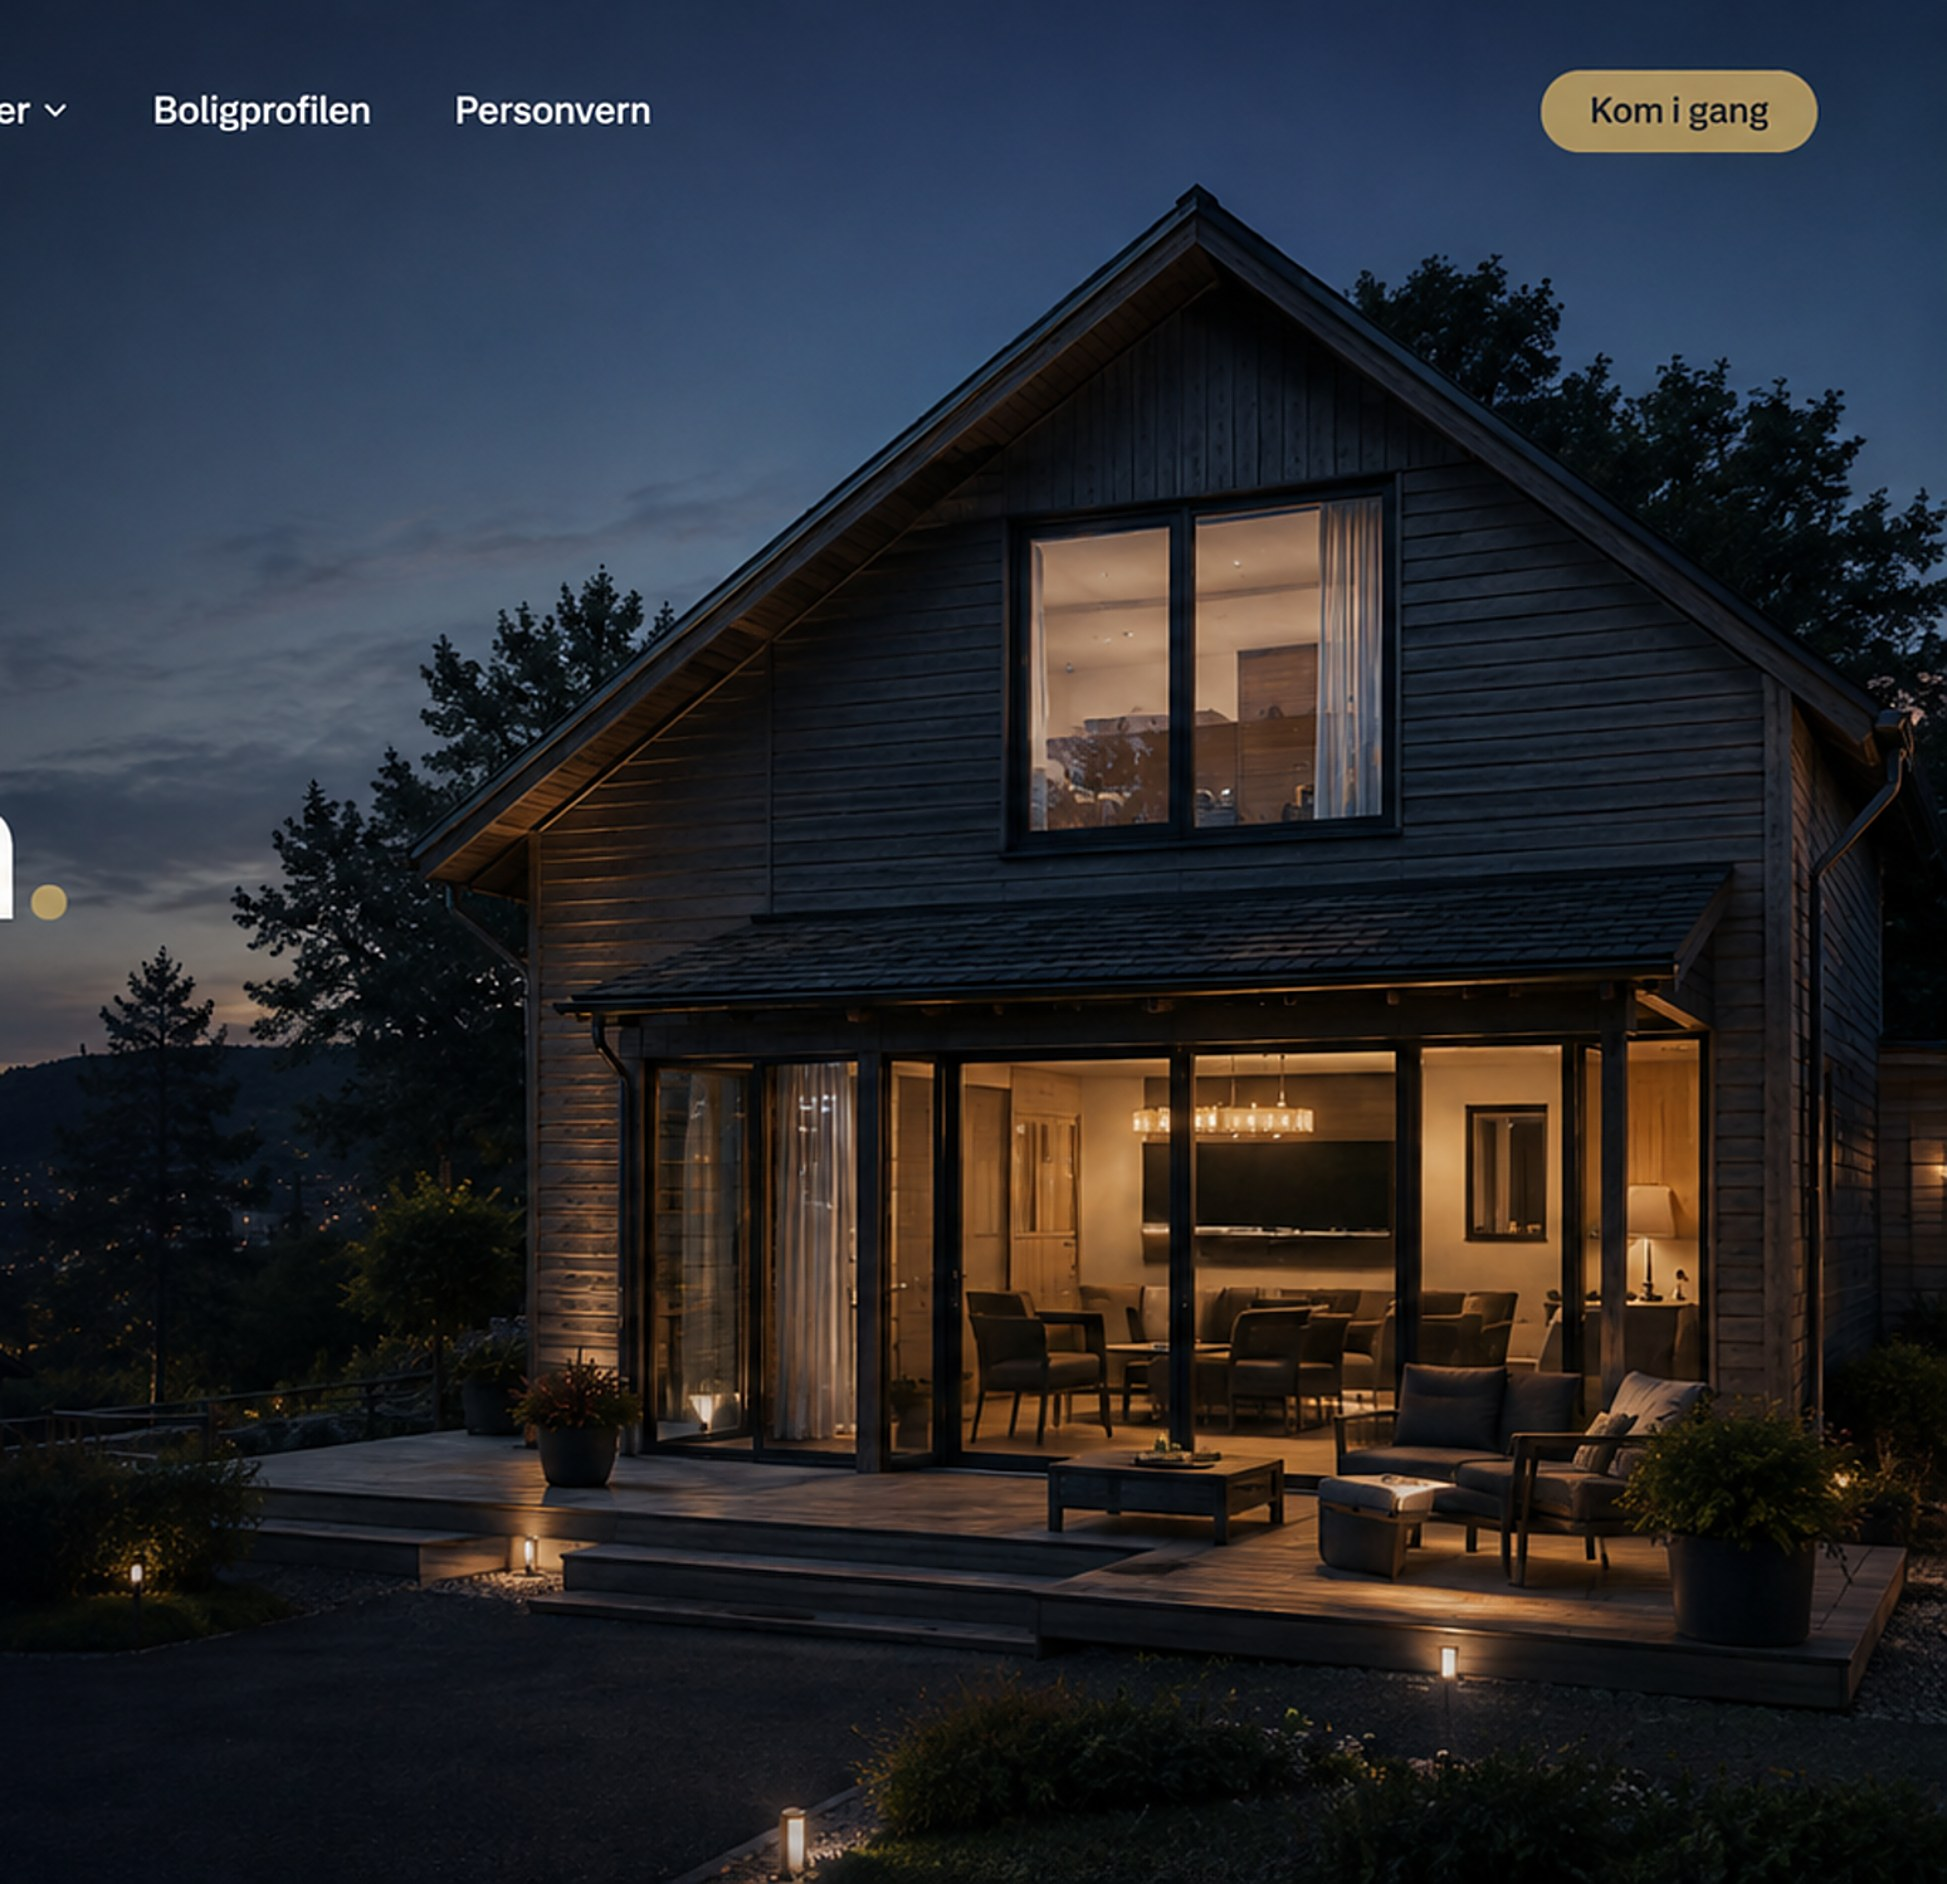
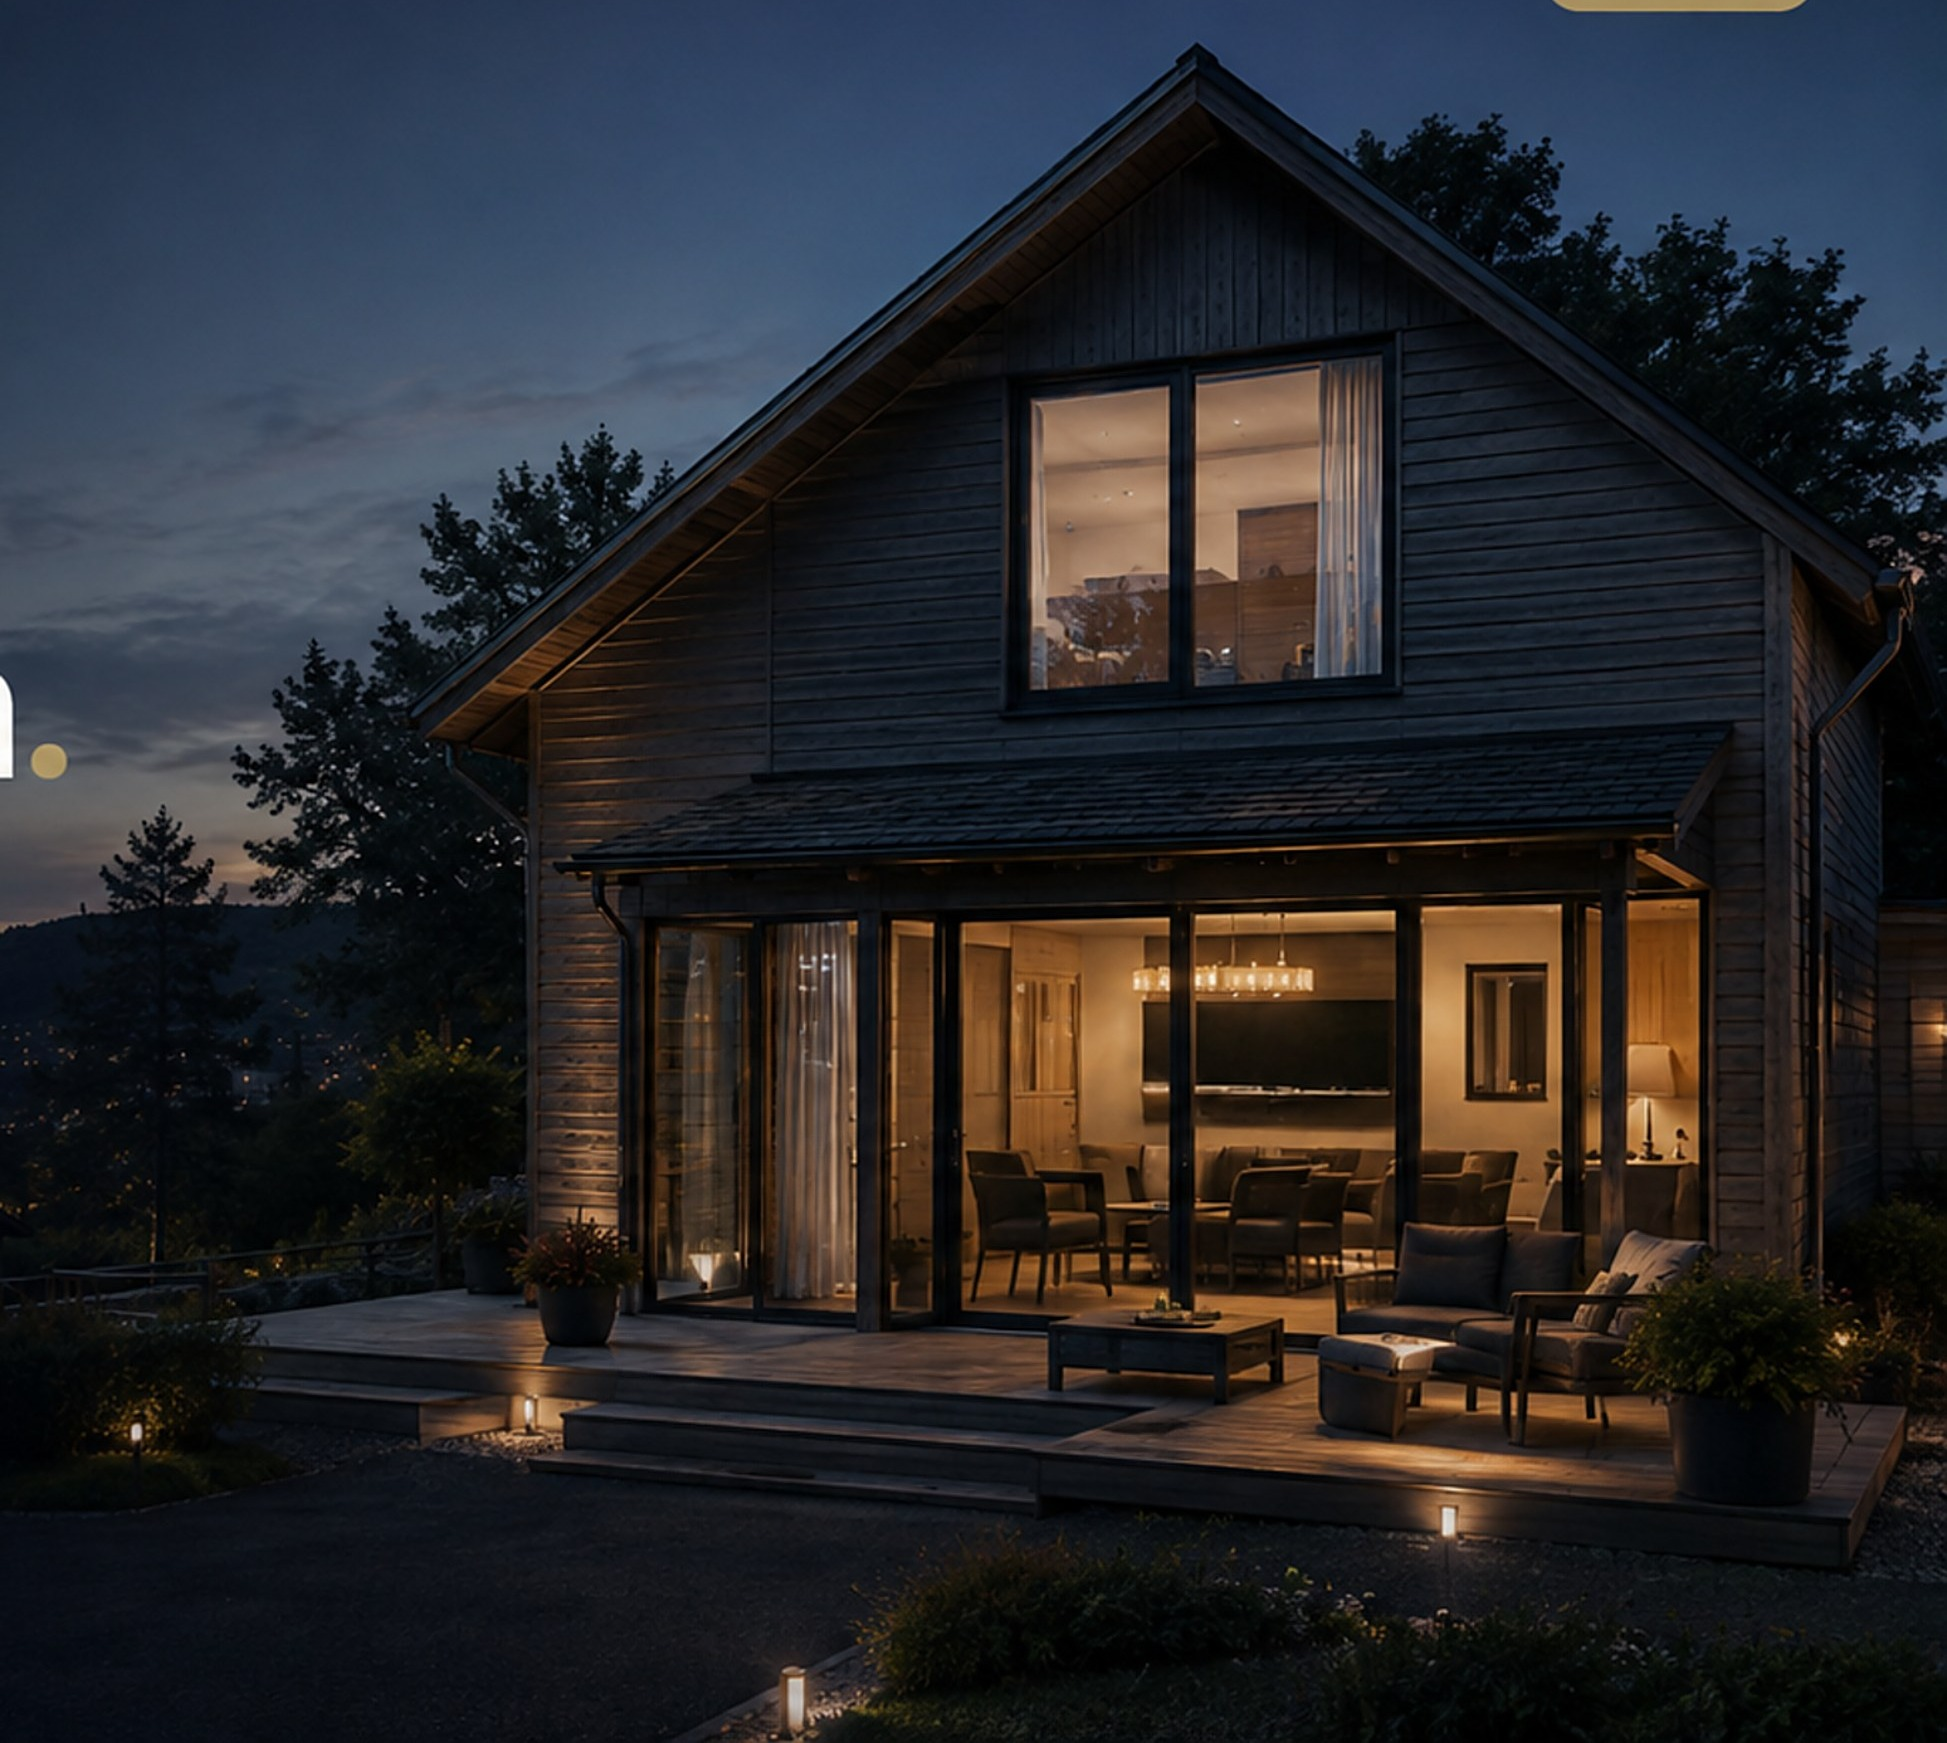
Chapters 1 and 9: premium 3200 px photos of the same couple and home (Pexels); door image cropped free of baked-in menu

diff --git a/index.html b/index.html
@@ -12,7 +12,7 @@
   "slotFoliage": "/assets/story/foliage.jpg",
   "slotContractor": "/assets/story/contractor.jpg",
   "chaosPhone": "/assets/story/chaos-phone.png",
-  "slotBath": "/assets/story/bath.jpg",
+  "slotBath": "/assets/story/couple-relief.jpg",
   "https://unpkg.com/react@18.3.1/umd/react.production.min.js": "/vendor/react.production.min.js",
   "https://unpkg.com/react-dom@18.3.1/umd/react-dom.production.min.js": "/vendor/react-dom.production.min.js"
 };</script>
@@ -331,7 +331,7 @@
   <section ref="{{ refHome }}" data-theme="dark" style="position: relative; height: 260vh; background: #0F1830" data-screen-label="01 Hjemmet" aria-label="Det menneskelige problemet">
     <div style="position: sticky; top: 0; height: 100vh; overflow: hidden; isolation: isolate">
       <div style="position: absolute; inset: 0; transform: translateZ(0); backface-visibility: hidden">
-        <image-slot id="shot-couple-wide" shape="rect" src="{{ resFoliage }}" placeholder="Shot 2 · Paret i stua/kjøkkenet — plasser dem 60–70 % mot høyre, mykt dagslys"></image-slot>
+        <image-slot id="shot-couple-wide" shape="rect" src="/assets/story/couple-table.jpg" placeholder="Shot 2 · Paret i stua/kjøkkenet — plasser dem 60–70 % mot høyre, mykt dagslys"></image-slot>
       </div>
       <div style="position: absolute; inset: 0; pointer-events: none; background: linear-gradient(90deg, rgba(15,24,48,0.78) 0%, rgba(15,24,48,0.4) 42%, rgba(15,24,48,0.05) 68%, transparent 100%)"></div>
       <div style="position: absolute; inset: 0; pointer-events: none; background: rgba(15,24,48,{{ homeDim }})"></div>

diff --git a/CREDITS.md b/CREDITS.md
@@ -1,0 +1,8 @@
+# Foto
+
+Stockfoto fra Pexels (Pexels-lisens, fri bruk):
+
+- assets/story/couple-table.jpg — https://www.pexels.com/photo/7671422/
+- assets/story/couple-relief.jpg — https://www.pexels.com/photo/7671424/
+
+Øvrige bilder følger Claude Design-eksporten.
